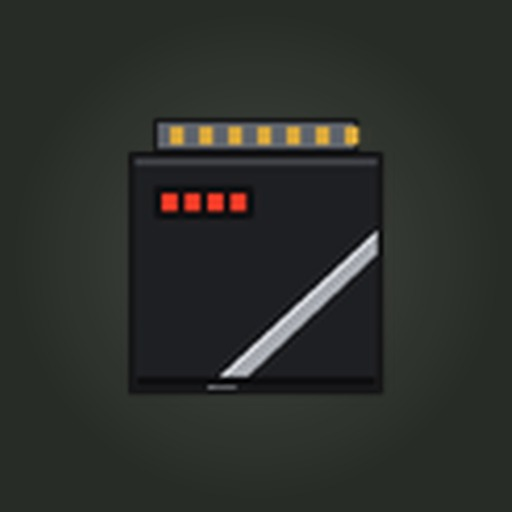
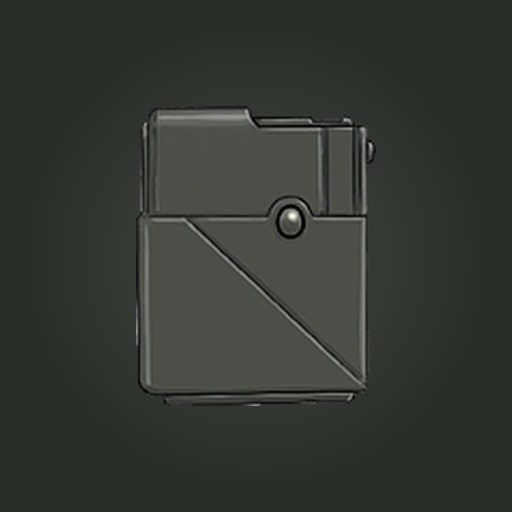
Laser Battery Pack: rechargeable 2000-energy battery for the rifle, art from the author's reference
Claude-Session: https://claude.ai/code/session_01PqPi8SRqyZdJEsWyYG1nUx

Changed region(s): [[0.25, 0.1875, 0.75, 0.8125]]

diff --git a/src/Power.cs b/src/Power.cs
@@ -7,10 +7,12 @@ namespace LaserGun
     // The Laser Rifle runs on the game's own batteries (weapon feedingType = Battery): R swaps in a
     // battery from your pack, the shots drain it, and it is recharged with the game's chargers.
     // The game drains batteryEnergyPerSec (Wh) for every second of firing, so after the mod loader
-    // runs this sets it so one reference battery gives about [Battery] ShotsPerBattery shots.
+    // runs this sets it so one full Laser Battery Pack gives about [Battery] ShotsPerBattery shots. The pack is
+    // a Magazine item in the .zedmod; MakeBattery turns it into a real game battery with PackCapacity energy.
     internal static class Power
     {
         const string RifleGuid = "93b81951-6391-4707-beb4-0ea971889dc7";
+        const string PackGuid = "cef9bff0-579f-401b-a5a2-890dc6fd3ec8";
 
         internal static int IdOf(string guid)
         {
@@ -44,6 +46,52 @@ namespace LaserGun
             catch { return 0f; }
         }
 
+        static readonly System.Text.RegularExpressions.Regex Num = new(@"[0-9]+(\.[0-9]+)?");
+
+        // Gives `pack` the template battery's item type and features, with its own battery feature holding `capacity`.
+        static float MakeBattery(ItemAttr pack, ItemAttr tmpl, int capacity)
+        {
+            var src = tmpl.GetItemFeatureByFeatureType(ItemFeatureType.Battery)?.TryCast<ItemFeature_Battery>();
+            if (src == null) return 0f;
+            var bat = UnityEngine.Object.Instantiate(src);
+            bat.hideFlags = UnityEngine.HideFlags.HideAndDontSave;
+            string old = bat.batteryCapacity ?? "";
+            bat.batteryCapacity = Num.IsMatch(old) ? Num.Replace(old, capacity.ToString(), 1) : capacity.ToString();
+
+            pack.itemType = tmpl.itemType;
+            var types = new Il2CppSystem.Collections.Generic.List<ItemFeatureType>();
+            var temp = new Il2CppSystem.Collections.Generic.List<ItemFeature>();
+            var dic = new Il2CppSystem.Collections.Generic.Dictionary<ItemFeatureType, ItemFeature>();
+            var cfgs = new Il2CppSystem.Collections.Generic.List<ItemFeatureConfigData>();
+            types.Add(ItemFeatureType.Battery); temp.Add(bat); dic[ItemFeatureType.Battery] = bat;
+            var tc = tmpl.itemFeatureConfigDatas;
+            if (tc != null)
+                for (int i = 0; i < tc.Count; i++)
+                {
+                    var c = tc[i];
+                    if (c == null || c.featureType != ItemFeatureType.Battery) continue;
+                    var n = new ItemFeatureConfigData { featureType = c.featureType, itemFeatureClassName = c.itemFeatureClassName };
+                    var fields = new Il2CppSystem.Collections.Generic.List<ItemFeatureConfigData.ItemFeatureFieldConfigData>();
+                    var fs = c.ItemFeatureFieldConfigDatas;
+                    if (fs != null)
+                        for (int j = 0; j < fs.Count; j++)
+                        {
+                            var f = fs[j]; if (f == null) continue;
+                            string v = f.itemFeatureFieldValue;
+                            if (f.itemFeatureFieldName == "batteryCapacity") v = bat.batteryCapacity;
+                            fields.Add(new ItemFeatureConfigData.ItemFeatureFieldConfigData { itemFeatureFieldName = f.itemFeatureFieldName, itemFeatureFieldValue = v });
+                        }
+                    n.ItemFeatureFieldConfigDatas = fields;
+                    cfgs.Add(n);
+                }
+            pack.itemFeatures = types;
+            pack.itemFeatureConfigDatas = cfgs;
+            pack.itemFeatureTemp = temp;
+            pack.itemFeatureDataDic = dic;
+            try { pack.InvalidateDescriptionCache(); } catch { }
+            return Capacity(pack, out _);
+        }
+
         internal static void Check()
         {
             var im = ItemManager.instance;
@@ -73,16 +121,35 @@ namespace LaserGun
 
             try { gun.feedingType = ItemAttr_RangedWeapon.FeedingType.Battery; } catch (Exception e) { PLog.Warn("Couldn't set battery feeding: " + e.Message); }
 
-            // Reference battery: the configured one, else the smallest that isn't a vehicle battery.
-            float refCap = 0f; string refName = "";
-            int want = Settings.BatteryItemId.Value;
+            // Template: the smallest game battery that isn't a vehicle battery. The Laser Battery Pack copies its
+            // battery setup (type, features, model) with PackCapacity energy, so loaders and chargers treat it as a battery.
+            int packId = IdOf(PackGuid);
+            int tmplId = -1; float tmplCap = 0f;
             foreach (var c in caps)
             {
-                if (want > 0) { if (c.id == want) { refCap = c.cap; refName = c.name; } continue; }
+                if (c.id == packId) continue;
                 string l = (c.name + " " + c.model).ToLowerInvariant();
                 if (l.Contains("car") || l.Contains("vehicle") || l.Contains("truck")) continue;
-                if (refCap <= 0f || c.cap < refCap) { refCap = c.cap; refName = c.name; }
+                if (tmplCap <= 0f || c.cap < tmplCap) { tmplCap = c.cap; tmplId = c.id; }
             }
+            float packCap = 0f;
+            var pack = packId > 0 ? im.GetItemAttrById(packId) : null;
+            var tmpl = tmplId > 0 ? im.GetItemAttrById(tmplId) : null;
+            if (pack == null) PLog.Warn("Power: the Laser Battery Pack item isn't loaded.");
+            else if (tmpl == null) PLog.Warn("Power: no game battery found to copy, so the Laser Battery Pack can't hold power.");
+            else
+            {
+                try { packCap = MakeBattery(pack, tmpl, Settings.PackCapacity.Value); }
+                catch (Exception e) { PLog.Warn("Power: couldn't make the Laser Battery Pack a battery: " + e); }
+                PLog.Info($"Power: Laser Battery Pack {packId} copies {Name(tmpl)} ({tmplId}), capacity {packCap:0.##} (type {pack.itemType})");
+            }
+
+            // Reference battery for the drain: the configured one, else the Laser Battery Pack.
+            float refCap = 0f; string refName = "";
+            int want = Settings.BatteryItemId.Value;
+            if (want > 0) { foreach (var c in caps) if (c.id == want) { refCap = c.cap; refName = c.name; } }
+            if (refCap <= 0f && packCap > 0f) { refCap = packCap; refName = "Laser Battery Pack"; }
+            if (refCap <= 0f && tmplCap > 0f) { refCap = tmplCap; refName = Name(tmpl); }
             float interval = gun.fireInterval > 0.001f ? gun.fireInterval : 0.15f;
             int shots = Math.Max(1, Settings.ShotsPerBattery.Value);
             if (Settings.EnergyPerSecond.Value > 0f) gun.batteryEnergyPerSec = Settings.EnergyPerSecond.Value;

diff --git a/tools/build_items.py b/tools/build_items.py
@@ -14,7 +14,8 @@ NAMES = {
                 "that arrives the instant you pull the trigger: no drop, no lead, no travel time. Each shot hits for 350 and has a chance to set "
                 "its target on fire. Runs on ordinary batteries: load one like a magazine (R swaps in a fresh one from your pack), about 50 shots each, and recharge them with the game's chargers. Fires about 400 shots a minute "
                 "with almost no recoil, and makes a sharp electric crack you will learn to love."),
-    "battery": ("Laser Battery (old)", "Retired in 1.1.0: the Laser Rifle now runs on the game's own batteries. Kept so old saves still load."),
+    "battery": ("Laser Battery Pack", "A heavy rechargeable power pack for the Laser Rifle. Holds 2000 energy, about 50 shots. "
+                "Load it like a magazine (R swaps in a fresh one from your pack) and recharge it in the game's battery chargers."),
     "cell":    ("Laser Charge (old)", "Retired in 1.1.0: the Laser Rifle now runs on the game's own batteries. Kept so old saves still load."),
 }
 
@@ -97,9 +98,13 @@ def cell():
     d.update({"ammoNumber": 10, "ammoBaseDamage": DAMAGE})
     return d
 
+# Laser Battery Pack: shipped as a Magazine item for its sprite/name/recipe; at start-up the plugin (Power.cs)
+# gives it the game's battery feature with PACK_CAPACITY energy, so the rifle loads it and chargers charge it.
+PACK_CAPACITY = 2000
+
 def battery():
-    d = base("battery", "Magazine", 400, [("Main", (96, 7, 67, 132))], (2, 2), 0.3, 0.9, 300.0, 0,
-             [(34, 6), (35, 3)], 2, 1, [(35, 1)], spawn=False, hidden=True)
+    d = base("battery", "Magazine", 400, [("Main", (8, 2, 112, 140))], (2, 2), 0.3, 1.2, 600.0, 0,
+             [(34, 6), (35, 3)], 2, 1, [(35, 1)], spawn=True, hidden=False)
     d.update({"ammoId": RID["cell"], "magazineSize": BATTERY_SHOTS, "durabilityCostPerShot": 0.005,
               "sizeFloat": 1.2000000476837158, "magazineFit": 1,
               "magazineOffset_x": 0.012888908386230469, "magazineOffset_y": -0.12591969966888428})

diff --git a/src/Settings.cs b/src/Settings.cs
@@ -15,7 +15,7 @@ namespace LaserGun
         internal static ConfigEntry<string> BeamColor;
         internal static ConfigEntry<float> SoundVolume;
         internal static ConfigEntry<string> SoundFile;
-        internal static ConfigEntry<int> BatteryItemId, ShotsPerBattery;
+        internal static ConfigEntry<int> BatteryItemId, ShotsPerBattery, PackCapacity;
         internal static ConfigEntry<float> EnergyPerSecond;
         internal static ConfigEntry<bool> VerboseLog;
 
@@ -28,7 +28,8 @@ namespace LaserGun
                 "Comma-separated modGuids of weapons that fire lasers. Default: this mod's Laser Rifle.");
             ExtraWeaponIds = c.Bind("General", "ExtraWeaponIds", "", "Extra item ids (comma-separated) that also fire lasers, e.g. a vanilla gun.");
             BatteryItemId = c.Bind("Battery", "ReferenceBatteryId", 0,
-                "Item id of the battery that gives exactly ShotsPerBattery shots (bigger batteries give more). 0 = the smallest non-vehicle battery. LaserGun.log lists every battery with its id.");
+                "Item id of the battery that gives exactly ShotsPerBattery shots (bigger batteries give more). 0 = the Laser Battery Pack. LaserGun.log lists every battery with its id.");
+            PackCapacity = c.Bind("Battery", "PackCapacity", 2000, new ConfigDescription("Energy a full Laser Battery Pack holds (same units as the game's batteries).", new AcceptableValueRange<int>(1, 100000)));
             ShotsPerBattery = c.Bind("Battery", "ShotsPerBattery", 50, new ConfigDescription("Shots from one full reference battery.", new AcceptableValueRange<int>(1, 1000)));
             EnergyPerSecond = c.Bind("Battery", "EnergyPerSecond", 0f, new ConfigDescription("Override: battery energy (Wh) used per second of firing. 0 = work it out from ShotsPerBattery.", R(0, 10000)));
 

diff --git a/tools/make_battery_from_reference.py b/tools/make_battery_from_reference.py
@@ -1,0 +1,22 @@
+"""Laser Battery Pack sprite from the author's reference (art-src/laser-battery-pack-reference.png):
+cuts out the white background and scales it onto a 128x144 canvas (ppu 400 in build_items.py)."""
+import sys, numpy as np, cv2
+from PIL import Image, ImageFilter
+src, out_sprite = sys.argv[1:3]
+img = cv2.imread(src); h, w = img.shape[:2]
+white = (img.min(axis=2) > 232).astype(np.uint8)
+n, lab = cv2.connectedComponents(white)
+bg = np.zeros_like(white)
+for i in range(1, n):
+    comp = lab == i
+    ys, xs = np.nonzero(comp)
+    if ys.min() == 0 or xs.min() == 0 or ys.max() == h - 1 or xs.max() == w - 1: bg |= comp.astype(np.uint8)
+alpha = cv2.GaussianBlur(((1 - bg) * 255).astype(np.float32), (0, 0), 0.7)
+full = Image.fromarray(np.dstack([img[..., ::-1], alpha.clip(0, 255).astype(np.uint8)]), "RGBA")
+full = full.crop(full.getbbox())
+k = min(124 / full.width, 140 / full.height)
+small = full.resize((round(full.width * k), round(full.height * k)), Image.LANCZOS).filter(ImageFilter.UnsharpMask(1, 60, 2))
+canvas = Image.new("RGBA", (128, 144), (0, 0, 0, 0))
+canvas.alpha_composite(small, ((128 - small.width) // 2, (144 - small.height) // 2))
+canvas.save(out_sprite)
+print(small.size, canvas.getbbox())

diff --git a/tools/make_art.py b/tools/make_art.py
@@ -295,7 +295,7 @@ def save(kind, key, img):
 def main():
     r = rifle(); b = battery(); c = cell()
     # rifle sprite now comes from tools/make_rifle_from_reference.py
-    save("Magazine", "battery", b)
+    # battery pack sprite now comes from tools/make_battery_from_reference.py
     save("Ammo", "cell", c)
     print("art written")
 

diff --git a/README.md b/README.md
@@ -6,8 +6,8 @@ targets on fire.
 | Item | What it is |
 |---|---|
 | Laser Rifle | Full auto, ~400 RPM (fireInterval 0.15 s), 350 damage, 1500 m/s, recoil 0.25, spread 0.6 |
-| (game batteries) | The rifle uses the game's battery feeding (feedingType 2): R swaps a battery in, firing drains it, chargers refill it |
-| Laser Battery / Laser Charge (old) | 1.0.0 items, now hidden; kept so old saves load |
+| Laser Battery Pack | Rechargeable pack, 2000 energy (~50 shots). The rifle uses the game's battery feeding (feedingType 2): R swaps a pack in, firing drains it, chargers refill it |
+| Laser Charge (old) | 1.0.0 ammo, now hidden; kept so old saves load |
 
 The plugin (`src/`, BepInEx IL2CPP, `girthy_mods.zedzone.lasergun`):
 
@@ -17,7 +17,7 @@ The plugin (`src/`, BepInEx IL2CPP, `girthy_mods.zedzone.lasergun`):
 - `Beam.cs` draws the beam (two short trails) and hides the game's bullet sprite.
 - `Sound.cs` loads `fire.wav` from the mod folder (any PCM/float WAV) and plays it at the muzzle.
 - `Remote.cs` gives other players' shots the same beam and sound.
-- `Power.cs` sets battery feeding and tunes `batteryEnergyPerSec` so the smallest battery gives `[Battery] ShotsPerBattery` shots (logs every battery's capacity).
+- `Power.cs` turns the Laser Battery Pack (a Magazine item in the .zedmod) into a real game battery by copying a game battery's features with `[Battery] PackCapacity` energy, sets battery feeding, and tunes `batteryEnergyPerSec` so one pack gives `[Battery] ShotsPerBattery` shots (logs every battery's capacity).
 - `Bundled.cs` loads `items\*.zedmod` next to the DLL (Girthy Mods / manual installs).
 
 Settings: `BepInEx\config\girthy_mods.zedzone.lasergun.cfg`, or Mod Menu (F11). Log: `BepInEx\LaserGun.log`.
@@ -39,6 +39,6 @@ To ship only original audio, set `[Sound] File = fire-original.wav` or replace `
 
 ## Art
 
-The rifle sprite is made from the reference picture the mod author supplied (`art-src/laser-rifle-reference-3.png`), cut out from its white background (`tools/make_rifle_from_reference.py`). The battery/charge sprites are original (`tools/make_art.py`).
+The rifle sprite is made from the reference picture the mod author supplied (`art-src/laser-rifle-reference-3.png`), cut out from its white background (`tools/make_rifle_from_reference.py`). The battery pack sprite is also from the author's art (`art-src/laser-battery-pack-reference.png`, `tools/make_battery_from_reference.py`); the old charge sprite is original (`tools/make_art.py`).
 The rifle uses the Boltgun rifle's canvas, sprite regions and hand/muzzle/magazine offsets so it sits
 in the hands the same way.

diff --git a/CHANGELOG.md b/CHANGELOG.md
@@ -1,10 +1,10 @@
 # Changelog
 
 ## 1.1.0 (2026-11-17)
-- The Laser Rifle now runs on the game's own batteries (battery feeding): R swaps a battery in, about 50 shots
-  from the smallest battery (bigger ones last longer), recharge with the game's chargers.
-- Laser Battery and Laser Charge are retired (hidden, no longer spawn) but still load for old saves.
-- New [Battery] settings: ShotsPerBattery, ReferenceBatteryId, EnergyPerSecond.
+- New Laser Battery Pack: a rechargeable battery with 2000 energy, about 50 shots. The rifle uses battery feeding:
+  R swaps a pack in, firing drains it, the game's chargers refill it. Game batteries also fit (fewer shots).
+- New rifle and battery pack art. Laser Charge is retired (hidden) but still loads for old saves.
+- New [Battery] settings: PackCapacity, ShotsPerBattery, ReferenceBatteryId, EnergyPerSecond.
 
 ## 1.0.0 (2026-11-17)
 - First release: Laser Rifle, Laser Battery (50), Laser Charge.
